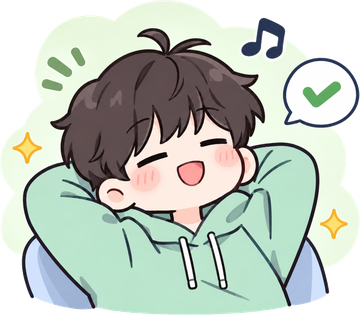
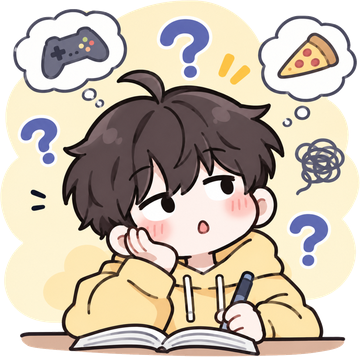
pr8

diff --git a/style.css b/style.css
@@ -888,7 +888,13 @@ a:focus-visible {
   flex-direction: column;
   justify-content: center;
   min-height: 440px;           /* 칸의 최소 높이 */
-  padding: 40px 32px;
+  padding: 28px 32px;          /* [수정] 위아래 여백 40 -> 28px: 그림이 커져도 칸이 늘어나지 않게 */
+}
+
+/* [수정] 섹션 3 설명 문구: 두 줄이 되면 줄 길이를 비슷하게 맞추고 단어 중간에서 끊기지 않게 함 */
+#test .section-text {
+  text-wrap: balance;
+  word-break: keep-all;
 }
 
 /* 캐릭터 이미지 공통: 칸 모서리에 겹쳐 놓고, 클릭은 칸으로 통과시킴 */
@@ -911,44 +917,55 @@ a:focus-visible {
   bottom: -40px;
 }
 
-/* [수정] 결과 단계 이름 (예: LEVEL 2 · ADHD력 중간): 작고 은은하게 */
+/* [수정] 결과 단계 이름 (예: LEVEL 2 · ADHD력 중간): 작고 은은하게. 칸이 커지지 않도록 글씨(.85->.8rem)와 아래 간격(12->8px)을 줄임 */
 .quiz-result-label {
-  margin: 0 0 12px;
-  font-size: .85rem;
+  margin: 0 0 8px;
+  font-size: .8rem;
   font-weight: var(--weight-strong);
   opacity: .7;
 }
-/* [수정] 결과 멘트(큰 글씨): 화면 폭에 따라 1.3rem ~ 1.6rem 사이로 자동 조정 */
+/* [수정] 결과 멘트(큰 글씨): 캐릭터가 커진 만큼 글씨를 줄임 (1.3~1.6rem -> 1.05~1.3rem)
+   text-align: 가운데 정렬 / text-wrap: balance: 두 줄이 되면 줄 길이를 비슷하게 맞춤 / word-break: keep-all: 단어 중간에서 줄이 바뀌지 않게 함 */
 .quiz-result-title {
-  margin: 0 0 8px;
+  margin: 0 0 4px;
   font-family: var(--font-title);
-  font-size: clamp(1.3rem, 3.4vw, 1.6rem);
+  font-size: clamp(1.05rem, 3.2vw, 1.3rem);
   line-height: 1.35;
+  text-align: center;
+  text-wrap: balance;
+  word-break: keep-all;
 }
-/* [수정] 결과 설명 (멘트 아래 한 줄) */
+/* [수정] 결과 설명 (멘트 아래 한 줄): 글씨 1.05 -> .92rem, 아래 간격 20 -> 12px로 줄이고 가운데 정렬 */
 .quiz-result-sub {
   max-width: 40ch;
-  margin: 0 auto 20px;
-  font-size: 1.05rem;
+  margin: 0 auto 12px;
+  font-size: .92rem;
   font-weight: var(--weight-strong);
-  line-height: 1.6;
+  line-height: 1.55;
+  text-align: center;
+  text-wrap: balance;
+  word-break: keep-all;
 }
 
-/* [수정] 결과 그림: 단계 이름과 멘트 사이. 높이를 고정해 칸이 너무 커지지 않게 함 */
+/* [수정] 결과 그림: 단계 이름과 멘트 사이. 높이 112 -> 128px로 약 14% 키움. 대신 주변 글씨와 여백을 줄여 칸 높이는 그대로 유지 */
 .quiz-result-image {
   align-self: center;
-  height: 112px;
+  height: 128px;
   width: auto;
-  margin: 0 0 10px;
+  max-width: 100%;             /* 좁은 화면에서도 칸 밖으로 나가지 않게 */
+  margin: 0 0 6px;
 }
 
 /* [수정] 안내 "잠깐! 이 테스트는 ADHD 진단을 내리는 검사가 아닙니다...": 읽을 수 있는 작은 글씨 */
 .quiz-notice-text {
   max-width: 44ch;
-  margin: 0 auto 14px;
-  font-size: .85rem;
-  line-height: 1.6;
+  margin: 0 auto 8px;          /* 아래 간격 14 -> 8px */
+  font-size: .8rem;            /* .85 -> .8rem (칸 높이 유지) */
+  line-height: 1.55;
   opacity: .85;
+  text-align: center;
+  text-wrap: balance;
+  word-break: keep-all;
 }
 
 /* [수정] 테두리 버튼 (답 버튼과 "이전" 버튼 공통)
@@ -986,8 +1003,9 @@ a:focus-visible {
 
 /* [수정] 질문 문장: 글자를 5px 줄임 (24px -> 19px) */
 .quiz-question {
-  margin-bottom: 20px;
-  font-size: 1.1875rem;
+  margin-bottom: 16px;         /* 20 -> 16px */
+  font-size: .9375rem;         /* [수정] 한 번 더 4px 줄임 (19px -> 15px) */
+  word-break: keep-all;        /* 단어 중간에서 줄이 바뀌지 않게 */
 }
 
 /* [수정] 답 버튼 3개: 글자에 맞게 작게 줄이고(높이 약 43px), 가운데에 같은 너비로 맞춤 */
@@ -1013,8 +1031,11 @@ a:focus-visible {
 
 /* [수정] "다시 테스트하기" 버튼: 칸 가운데에 놓고 위쪽 링크와 간격을 둠 */
 .quiz-retry {
+  --bs-btn-padding-y: 7px;     /* 버튼 높이를 조금 줄여 칸이 커지지 않게 함 */
+  --bs-btn-padding-x: 22px;
+  --bs-btn-font-size: .9rem;
   align-self: center;
-  margin-top: 18px;
+  margin-top: 8px;             /* 18 -> 8px */
 }
 
 /* [수정] 휴대폰(너비 575px 이하): 하얀 칸을 더 작게 줄이고, 구름 캐릭터가 위쪽 설명 글자와 겹치지 않게 함 */
@@ -1023,14 +1044,49 @@ a:focus-visible {
   /* padding-top: 설명 글자와 칸 사이를 28px 더 벌려서 구름이 들어갈 자리를 만듦 */
   .quiz-wrap { width: calc(100% - 40px); padding-top: 28px; }
   /* 칸 안쪽 위아래 여백을 줄임 */
-  .quiz-box { min-height: 0; padding: 26px 16px; }
+  .quiz-box { min-height: 0; padding: 22px 16px; }   /* [수정] 위아래 여백 26 -> 22px */
   .quiz-question { margin-bottom: 16px; }
   .quiz-answer { width: min(100%, 240px); }
   /* 첫 질문에서는 "이전" 버튼이 자리까지 없어지게 해서, 답 버튼 아래 빈 공간이 생기지 않게 함 */
   .quiz-prev.is-hidden { display: none; }
-  .quiz-link { margin-top: 12px; }
-  .quiz-result-image { height: 88px; } /* 휴대폰에서는 결과 그림을 더 작게 */
+  .quiz-link { margin-top: 8px; }                    /* [수정] 12 -> 8px */
+  .quiz-retry { margin-top: 6px; }                   /* [수정] 휴대폰에서는 버튼 위 간격을 더 줄임 */
+  .quiz-result-image { height: 100px; } /* [수정] 휴대폰 결과 그림 88 -> 100px (약 14% 키움) */
   /* 구름: 크기를 조금 줄이고 오른쪽으로 옮김. top은 위 padding-top(28px) 때문에 칸 위쪽에서 12px 위 정도에 놓임 */
   .quiz-char-right { width: 84px; right: -16px; top: -12px; }
   .quiz-char-left { width: 68px; left: -8px; bottom: -34px; }
+}
+
+/* ===================================================================
+   [추가 수정] 섹션 3: 결과 캐릭터를 중간 크기로 키우고, 하얀 칸 크기는 고정
+   - 캐릭터(.quiz-result-image): PC 128 -> 160px, 휴대폰 100 -> 120px
+   - 그림이 커진 만큼 글씨(단계 이름, 멘트, 설명, 안내)를 조금 줄여 칸이 늘어나지 않게 함
+   - 하얀 칸(.quiz-box)은 min-height 대신 height로 고정: 질문 화면, 결과 화면(낮음/중간/높음) 모두 같은 크기
+   (위의 기존 규칙은 그대로 두고, 같은 규칙이 겹치면 아래에 있는 것이 적용되는 점을 이용해 덮어씀)
+   =================================================================== */
+.quiz-box {
+  height: 440px;               /* 고정 높이. 내용이 바뀌어도 칸은 움직이지 않음 */
+  min-height: 0;
+  padding: 24px 32px;
+}
+.quiz-result-image {
+  height: 160px;               /* 중간 크기 (이전 128px) */
+  margin: 0 0 4px;
+}
+.quiz-result-label  { margin-bottom: 6px; font-size: .75rem; }
+.quiz-result-title  { font-size: clamp(1rem, 3vw, 1.15rem); }
+.quiz-result-sub    { margin-bottom: 8px; font-size: .84rem; line-height: 1.45; }
+.quiz-notice-text   { margin-bottom: 4px; font-size: .72rem; line-height: 1.45; }
+.quiz-link          { margin-top: 10px; font-size: .88rem; }
+.quiz-retry         { margin-top: 6px; }
+
+@media (max-width: 575px) {
+  .quiz-box { height: 400px; padding: 18px 14px; }   /* 휴대폰도 고정 높이 */
+  .quiz-result-image { height: 120px; }              /* 중간 크기 (이전 100px) */
+  .quiz-result-label  { font-size: .72rem; }
+  .quiz-result-title  { font-size: 1rem; }
+  .quiz-result-sub    { font-size: .8rem; margin-bottom: 6px; }
+  .quiz-notice-text   { font-size: .7rem; }
+  .quiz-link          { margin-top: 6px; font-size: .84rem; }
+  .quiz-retry         { margin-top: 4px; }
 }

diff --git a/script.js b/script.js
@@ -38,13 +38,14 @@ handImages.forEach(function (path) {
   new Image().src = path;
 });
 
-// [수정] ADHD력 테스트 질문 5개. 이 목록에 문장을 추가하면 질문이 늘어납니다.
+// [수정] ADHD력 테스트 질문 5개. 질문 문장을 짧게 줄였습니다. 이 목록에 문장을 추가하면 질문이 늘어납니다.
+// (4번 질문은 요청받은 문구 그대로 넣었습니다. 다른 질문과 달리 "~나요?" 대신 "~한다."로 끝납니다)
 const quizQuestions = [
   "해야 할 일을 알고 있는데도 자꾸 미루나요?",
-  "방금까지 가지고 있던 물건을 어디에 뒀는지 자주 까먹나요?",
-  "공부나 과제를 하다가 다른 생각에 빠져 집중이 흐트러지나요?",
-  "다른 사람이 말할 때 끝까지 듣지 못하고 중간에 끼어들거나 딴생각을 하나요?",
-  "가만히 앉아 있기 어렵거나 무언가를 계속 만지작거리나요?",
+  "물건을 어디에 뒀는지 자주 까먹나요?",
+  "다른 생각에 빠져 집중이 흐트러지나요?",
+  "대화 할 때 딴 생각, 집중 못하고 끼어 든다.",
+  "안절부절 못하고 무언가를 계속 만지작거리나요?",
 ];
 
 // 답 버튼 3개와 각 답의 점수 (모든 질문이 같은 답을 씀)

diff --git a/index.html b/index.html
@@ -141,8 +141,8 @@
         <div class="section-head">
           <p class="section-eyebrow" lang="en">ADHD TEST</p>
           <h2 class="section-title">ADHD력 테스트</h2>
-          <!-- [수정] 설명 문구를 새 문구로 바꿈. <br>은 줄바꿈이라서 "나에게 필요한 도움과..."가 둘째 줄로 내려감 -->
-          <p class="section-text">간단한 테스트를 통해 나의 집중 습관과 일상 패턴을 살펴보고,<br>나에게 필요한 도움과 방법을 찾아보세요.</p>
+          <!-- [수정] 설명 문구를 다시 바꿈. 한 문장이라 줄바꿈(<br>)은 뺐고, 화면 폭에 따라 자연스럽게 줄이 바뀜 -->
+          <p class="section-text">나의 집중 습관과 일상 패턴을 살펴보고 루틴으로 극복해요!!</p>
         </div>
         <!-- 질문과 결과가 이 칸 안에서 바뀜 (script.js가 채움) -->
         <div class="quiz-wrap">
